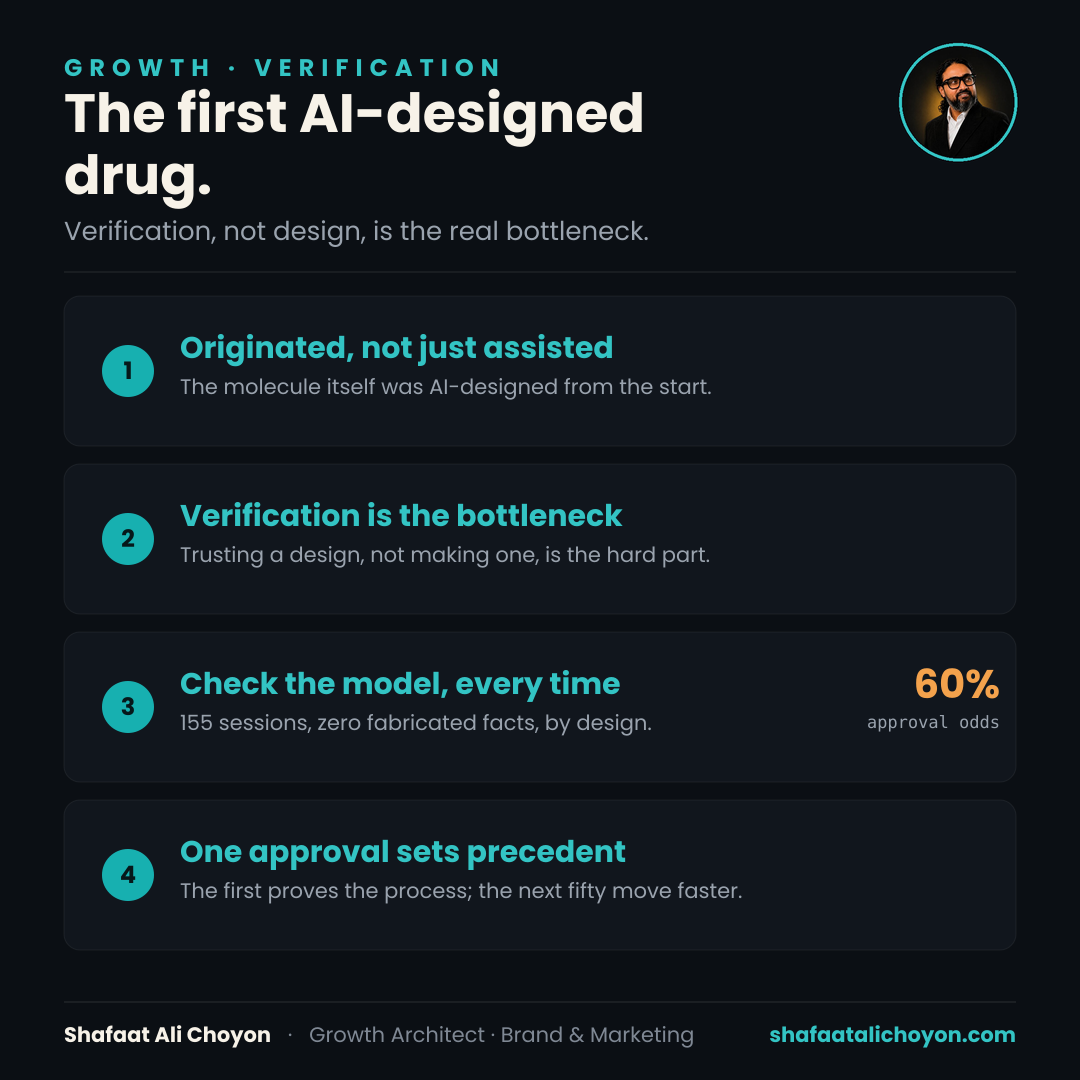
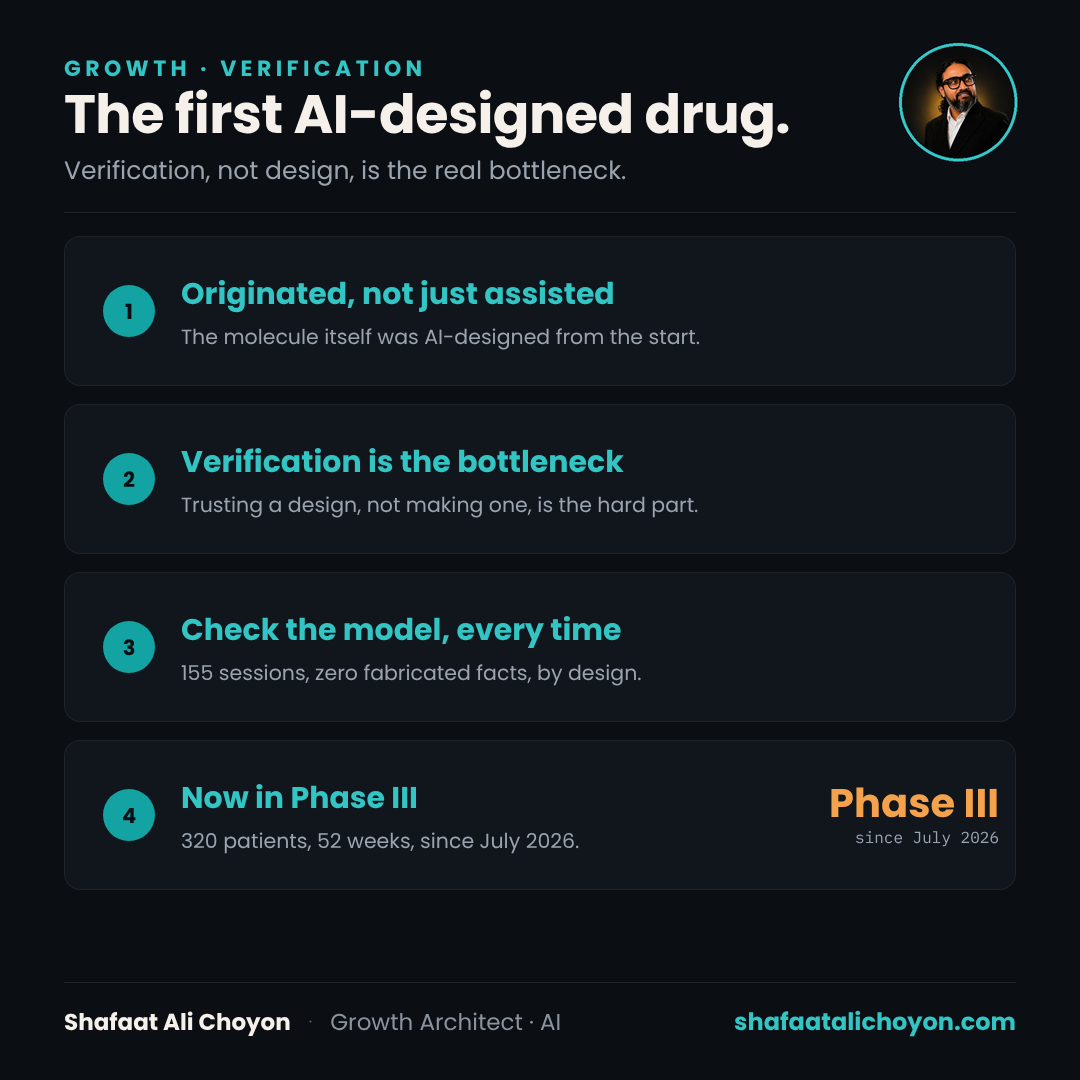
Dated update notes: rentosertib Phase III, Bangladesh out-of-pocket 73%, AI drug counts corrected
- first-ai-designed-drug: rentosertib entered Phase III in July 2026 (Insilico); approval odds line retired; new share cards
- financing-the-uninsured: out-of-pocket 73% in 2021 (Bangladesh National Health Accounts, via BSS); new share cards
- ai-beats-human-drug-discovery: correction note, 117 to 175 programs in trials (2026 trackers), 18 months is an Insilico claim

Claude-Session: https://claude.ai/code/session_01PHiPxyXvEgajkNqsmLpdvA

diff --git a/first-ai-designed-drug.html b/first-ai-designed-drug.html
@@ -5,7 +5,7 @@
 <script>(function(){try{var t=localStorage.getItem('shafaat_theme');if(t!=='light'&&t!=='dark'){t=(window.matchMedia&&window.matchMedia('(prefers-color-scheme: dark)').matches)?'dark':'light';}document.documentElement.setAttribute('data-theme',t);var m=document.querySelector('meta[name=theme-color]');if(m)m.setAttribute('content',t==='light'?'#FBF8F1':'#0B0F14');}catch(e){}})();</script>
 <meta name="viewport" content="width=device-width, initial-scale=1" />
 <title>The First AI-Designed Drug Nears FDA Approval</title>
-<meta name="description" content="Insilico's rentosertib is the first fully AI-designed drug in Phase IIb, with a 60% shot at approval by 2027. Why verification, not design, is the real bottleneck." />
+<meta name="description" content="Insilico's rentosertib, the first fully AI-designed drug, entered Phase III in July 2026. Why verification, not design, is the real bottleneck." />
 <link rel="canonical" href="https://shafaatalichoyon.com/first-ai-designed-drug.html" />
 <meta name="author" content="Md Shafaat Ali Choyon" />
 <meta name="robots" content="index, follow, max-image-preview:large, max-snippet:-1" />
@@ -18,7 +18,7 @@
 <meta property="og:type" content="article" />
 <meta property="og:site_name" content="Md Shafaat Ali Choyon" />
 <meta property="og:title" content="The First AI-Designed Drug Nears FDA Approval" />
-<meta property="og:description" content="Insilico's rentosertib is the first fully AI-designed drug in Phase IIb, with a 60% shot at approval by 2027. Why verification, not design, is the real bottleneck." />
+<meta property="og:description" content="Insilico's rentosertib, the first fully AI-designed drug, entered Phase III in July 2026. Why verification, not design, is the real bottleneck." />
 <meta property="og:url" content="https://shafaatalichoyon.com/first-ai-designed-drug.html" />
 <meta property="og:image" content="https://shafaatalichoyon.com/assets/og/first-ai-designed-drug.png" />
 <meta property="og:image:width" content="1200" />
@@ -28,7 +28,7 @@
 <meta property="article:section" content="Growth" />
 <meta name="twitter:card" content="summary_large_image" />
 <meta name="twitter:title" content="The First AI-Designed Drug Nears FDA Approval" />
-<meta name="twitter:description" content="Insilico's rentosertib is the first fully AI-designed drug in Phase IIb, with a 60% shot at approval by 2027. Why verification, not design, is the real bottleneck." />
+<meta name="twitter:description" content="Insilico's rentosertib, the first fully AI-designed drug, entered Phase III in July 2026. Why verification, not design, is the real bottleneck." />
 <meta name="twitter:image" content="https://shafaatalichoyon.com/assets/og/first-ai-designed-drug.png" />
 
 <script type="application/ld+json">
@@ -38,9 +38,9 @@
     {
       "@type": "Article",
       "headline": "The First Fully AI-Designed Drug Could Get FDA Approval Within the Year",
-      "description": "Insilico's rentosertib is the first fully AI-designed drug in Phase IIb, with a 60% shot at approval by 2027. Why verification, not design, is the real bottleneck.",
+      "description": "Insilico's rentosertib, the first fully AI-designed drug, entered Phase III in July 2026. Why verification, not design, is the real bottleneck.",
       "datePublished": "2026-08-16",
-      "dateModified": "2026-08-16",
+      "dateModified": "2026-10-26",
       "inLanguage": "en",
       "mainEntityOfPage": { "@type": "WebPage", "@id": "https://shafaatalichoyon.com/first-ai-designed-drug.html" },
       "image": "https://shafaatalichoyon.com/assets/og/first-ai-designed-drug.png",
@@ -57,13 +57,16 @@
         { "@type": "ListItem", "position": 3, "name": "The First Fully AI-Designed Drug Could Get FDA Approval Within the Year", "item": "https://shafaatalichoyon.com/first-ai-designed-drug.html" }
       ]
     },
-    {"@type":"FAQPage","mainEntity":[{"@type":"Question","name":"What makes rentosertib different from other AI drug discovery?","acceptedAnswer":{"@type":"Answer","text":"Rentosertib, from Insilico Medicine, was conceived by AI from the first molecular structure onward, not tweaked or accelerated by AI after a human team picked the starting point. It already showed clinical efficacy in Phase IIa and now sits in Phase IIb, with industry analysis putting the odds at 60% for approval sometime between 2026 and 2027."}},{"@type":"Question","name":"Is AI-assisted drug discovery the same as an AI-originated drug?","acceptedAnswer":{"@type":"Answer","text":"No. There are already 200-plus drugs in trials that used AI somewhere in the pipeline, screening candidates or predicting binding affinity, that story is basically won and priced in. Rentosertib is different: the molecule itself, not just the search process that found it, was AI-originated from the start."}},{"@type":"Question","name":"Why is verification the real bottleneck for AI-designed drugs?","acceptedAnswer":{"@type":"Answer","text":"Designing a molecule fast was never the hard part once modeling improved; trusting the design through years of trials is. A 60% approval probability isn't a confidence score on the science, it's a confidence score on everything checking the science, trial by trial, endpoint by endpoint."}}]}
+    {"@type":"FAQPage","mainEntity":[{"@type":"Question","name":"What makes rentosertib different from other AI drug discovery?","acceptedAnswer":{"@type":"Answer","text":"Rentosertib, from Insilico Medicine, was conceived by AI from the first molecular structure onward, not tweaked or accelerated by AI after a human team picked the starting point. It showed clinical efficacy in Phase IIa, and in July 2026 it entered a 320-patient, 52-week Phase III trial in China. It remains investigational and is not approved anywhere yet."}},{"@type":"Question","name":"Is AI-assisted drug discovery the same as an AI-originated drug?","acceptedAnswer":{"@type":"Answer","text":"No. There are already 200-plus drugs in trials that used AI somewhere in the pipeline, screening candidates or predicting binding affinity, that story is basically won and priced in. Rentosertib is different: the molecule itself, not just the search process that found it, was AI-originated from the start."}},{"@type":"Question","name":"Why is verification the real bottleneck for AI-designed drugs?","acceptedAnswer":{"@type":"Answer","text":"Designing a molecule fast was never the hard part once modeling improved; trusting the design through years of trials is. An approval-odds number isn't a confidence score on the science, it's a confidence score on everything checking the science, trial by trial, endpoint by endpoint."}}]}
   ]
 }
 </script>
 
 <link rel="stylesheet" href="/assets/vendor/fonts.css">
 <style>
+.update-note{background:var(--panel);border:1px solid var(--line);border-left:3px solid var(--amber);border-radius:10px;padding:14px 18px;margin:22px 0 4px;font-size:14.5px;color:var(--body);max-width:68ch;}
+.update-note b{color:var(--amber);font-weight:600;}
+
   :root{--bg:#0B0F14;--panel:#11161D;--tile:#06090D;--ivory:#F3EFE7;--body:#C7CDD6;--muted:#9AA3AE;--faint:#7f8894;--teal:#33C4C4;--amber:#F4A24C;--line:rgba(255,255,255,.09);}
   *{box-sizing:border-box;}
   body{margin:0;background:var(--bg);color:var(--body);font-family:'Inter',system-ui,-apple-system,sans-serif;-webkit-font-smoothing:antialiased;line-height:1.66;}
@@ -201,6 +204,7 @@
   <p class="byline">By <b>Md Shafaat Ali Choyon</b> <span class="creds">MPH · CHES® · MBA · MCIM</span> · builds &amp; runs AI in production · Growth &amp; health strategist · 4 min read · <time datetime="2026-08-16">Aug 16, 2026</time></p>
 
   <article>
+    <aside class="update-note" id="update-2026-10-26" aria-label="Update"><p><b>Update, <time datetime="2026-10-26">26 October 2026</time>:</b> Since this essay was published, rentosertib has moved on. In July 2026 Insilico began a Phase III trial: 320 patients with idiopathic pulmonary fibrosis, 52 weeks of once-daily dosing, at 47 centers in China<sup class="cref"><a href="#src-5">5</a></sup>. The company stresses the drug is still investigational and not approved anywhere, so the approval timeline quoted below was too optimistic. The argument stands: designing the molecule was never the bottleneck, trusting it is, and a year-long Phase III against placebo is exactly that test.</p></aside>
     <p class="lede">Somewhere in a Phase IIb trial right now sits a molecule that no chemist designed. Insilico Medicine's rentosertib was conceived by AI from<sup class="cref"><a href="#src-1">1</a></sup> the first structure onward, not tweaked or accelerated by AI after a human team picked the starting point. It already showed clinical efficacy in Phase<sup class="cref"><a href="#src-2">2</a></sup> IIa. Industry analysis this year puts the odds at 60% that the sector sees its first fully AI-designed drug approved somewhere between 2026<sup class="cref"><a href="#src-3">3</a></sup> and 2027.</p>
 
       <figure class="essay-fig">
@@ -238,7 +242,7 @@
 
     <ul class="principles">
       <li><b>Rentosertib</b> is designed by AI from the molecule up, not AI-assisted, AI-originated.</li>
-      <li>The sector carries a <b>60% probability</b> of a first fully AI-designed drug approval in 2026-2027.</li>
+      <li>Rentosertib entered <b>Phase III in July 2026</b> (320 patients, 52 weeks); it is still investigational.</li>
       <li>200+ AI-assisted drugs are already in trials, this is a <b>narrower, symbolic first</b>, not the same story.</li>
       <li>The real bottleneck isn't design speed, it's <b>verification</b> strong enough for regulators to trust it.</li>
     </ul>
@@ -248,7 +252,7 @@
       <h2>Frequently asked questions</h2>
       <div class="faq-item">
         <h3>What makes rentosertib different from other AI drug discovery?</h3>
-        <p>Rentosertib, from Insilico Medicine, was conceived by AI from the first molecular structure onward, not tweaked or accelerated by AI after a human team picked the starting point. It already showed clinical efficacy in Phase IIa and now sits in Phase IIb, with industry analysis putting the odds at 60% for approval sometime between 2026 and 2027.</p>
+        <p>Rentosertib, from Insilico Medicine, was conceived by AI from the first molecular structure onward, not tweaked or accelerated by AI after a human team picked the starting point. It showed clinical efficacy in Phase IIa, and in July 2026 it entered a 320-patient, 52-week Phase III trial in China. It remains investigational and is not approved anywhere yet.</p>
       </div>
       <div class="faq-item">
         <h3>Is AI-assisted drug discovery the same as an AI-originated drug?</h3>
@@ -256,7 +260,7 @@
       </div>
       <div class="faq-item">
         <h3>Why is verification the real bottleneck for AI-designed drugs?</h3>
-        <p>Designing a molecule fast was never the hard part once modeling improved; trusting the design through years of trials is. A 60% approval probability isn't a confidence score on the science, it's a confidence score on everything checking the science, trial by trial, endpoint by endpoint.</p>
+        <p>Designing a molecule fast was never the hard part once modeling improved; trusting the design through years of trials is. An approval-odds number isn't a confidence score on the science, it's a confidence score on everything checking the science, trial by trial, endpoint by endpoint.</p>
       </div>
     </section>
 
@@ -267,6 +271,7 @@
 <li id="src-2">Nature Medicine / PubMed. <a href="https://pubmed.ncbi.nlm.nih.gov/40461817/" target="_blank" rel="noopener">pubmed.ncbi.nlm.nih.gov &#8599;</a></li>
 <li id="src-3">Healthcare Discovery AI (secondary industry analysis). <a href="https://healthcarediscovery.ai/ai-drug-discovery-pipeline-2026-clinical-trials/" target="_blank" rel="noopener">healthcarediscovery.ai &#8599;</a></li>
 <li id="src-4">AIoapex / industry analyses. <a href="https://aioapex.com/en/blog/ai-drug-discovery-clinical-pipeline-2026" target="_blank" rel="noopener">aioapex.com &#8599;</a></li>
+<li id="src-5">Insilico Medicine, "Insilico initiates Phase III clinical trial of rentosertib" (7 July 2026). <a href="https://insilico.com/news/xmjsn4l091-insilico-initiates-phase-iii-clinical-tr" target="_blank" rel="noopener">insilico.com &#8599;</a></li>
 </ol>
 </section>
 <section class="related" aria-label="Related essays">

diff --git a/ai-beats-human-drug-discovery.html b/ai-beats-human-drug-discovery.html
@@ -5,7 +5,7 @@
 <script>(function(){try{var t=localStorage.getItem('shafaat_theme');if(t!=='light'&&t!=='dark'){t=(window.matchMedia&&window.matchMedia('(prefers-color-scheme: dark)').matches)?'dark':'light';}document.documentElement.setAttribute('data-theme',t);var m=document.querySelector('meta[name=theme-color]');if(m)m.setAttribute('content',t==='light'?'#FBF8F1':'#0B0F14');}catch(e){}})();</script>
 <meta name="viewport" content="width=device-width, initial-scale=1" />
 <title>AI Is Now Beating Human Drug Discovery on Its Own Numbers</title>
-<meta name="description" content="200+ AI-designed drugs are in clinical development with 80-90% Phase I success versus 40-65% traditionally. AI isn't just faster at discovery, it's more accurate." />
+<meta name="description" content="117 to 175 AI-designed drug programs have reached trials, with 80-90% Phase I success versus 40-65% traditionally. AI isn't just faster at discovery, it's more accurate." />
 <link rel="canonical" href="https://shafaatalichoyon.com/ai-beats-human-drug-discovery.html" />
 <meta name="author" content="Md Shafaat Ali Choyon" />
 <meta name="robots" content="index, follow, max-image-preview:large, max-snippet:-1" />
@@ -18,7 +18,7 @@
 <meta property="og:type" content="article" />
 <meta property="og:site_name" content="Md Shafaat Ali Choyon" />
 <meta property="og:title" content="AI Is Now Beating Human Drug Discovery on Its Own Numbers" />
-<meta property="og:description" content="200+ AI-designed drugs are in clinical development with 80-90% Phase I success versus 40-65% traditionally. AI isn't just faster at discovery, it's more accurate." />
+<meta property="og:description" content="117 to 175 AI-designed drug programs have reached trials, with 80-90% Phase I success versus 40-65% traditionally. AI isn't just faster at discovery, it's more accurate." />
 <meta property="og:url" content="https://shafaatalichoyon.com/ai-beats-human-drug-discovery.html" />
 <meta property="og:image" content="https://shafaatalichoyon.com/assets/og/ai-beats-human-drug-discovery.png" />
 <meta property="og:image:width" content="1200" />
@@ -28,7 +28,7 @@
 <meta property="article:section" content="Artificial Intelligence" />
 <meta name="twitter:card" content="summary_large_image" />
 <meta name="twitter:title" content="AI Is Now Beating Human Drug Discovery on Its Own Numbers" />
-<meta name="twitter:description" content="200+ AI-designed drugs are in clinical development with 80-90% Phase I success versus 40-65% traditionally. AI isn't just faster at discovery, it's more accurate." />
+<meta name="twitter:description" content="117 to 175 AI-designed drug programs have reached trials, with 80-90% Phase I success versus 40-65% traditionally. AI isn't just faster at discovery, it's more accurate." />
 <meta name="twitter:image" content="https://shafaatalichoyon.com/assets/og/ai-beats-human-drug-discovery.png" />
 
 <script type="application/ld+json">
@@ -38,9 +38,9 @@
     {
       "@type": "Article",
       "headline": "AI Is Now Beating Human Drug Discovery on Its Own Numbers",
-      "description": "200+ AI-designed drugs are in clinical development with 80-90% Phase I success versus 40-65% traditionally. AI isn't just faster at discovery, it's more accurate.",
+      "description": "117 to 175 AI-designed drug programs have reached trials, with 80-90% Phase I success versus 40-65% traditionally. AI isn't just faster at discovery, it's more accurate.",
       "datePublished": "2026-08-22",
-      "dateModified": "2026-08-22",
+      "dateModified": "2026-10-26",
       "inLanguage": "en",
       "mainEntityOfPage": { "@type": "WebPage", "@id": "https://shafaatalichoyon.com/ai-beats-human-drug-discovery.html" },
       "image": "https://shafaatalichoyon.com/assets/og/ai-beats-human-drug-discovery.png",
@@ -57,13 +57,16 @@
         { "@type": "ListItem", "position": 3, "name": "AI Is Now Beating Human Drug Discovery on Its Own Numbers", "item": "https://shafaatalichoyon.com/ai-beats-human-drug-discovery.html" }
       ]
     },
-    {"@type":"FAQPage","mainEntity":[{"@type":"Question","name":"Is AI actually beating human drug discovery, or is it just faster?","acceptedAnswer":{"@type":"Answer","text":"Both, but the surprising part is accuracy: AI-designed drugs run an 80-90% Phase I success rate versus 40-65% for traditionally discovered drugs. Target-to-IND time also dropped from 3-5 years to 18 months, but the hit-rate gain is the real story."}},{"@type":"Question","name":"How many AI-designed drugs are currently in clinical development?","acceptedAnswer":{"@type":"Answer","text":"More than 200 AI-designed drugs are already in clinical development, which is the proof point that this approach works at scale, not just a lab-scale promise."}},{"@type":"Question","name":"What's driving the accuracy gain, not just the speed gain?","acceptedAnswer":{"@type":"Answer","text":"A locked, consistent evaluation framework that removes the guesswork about what \"working\" means, the same mechanism behind the roughly 3x reach improvement documented in my MPH capstone. Instead of advancing candidates on partial, noisy preclinical signals, the process screens against a fixed standard across millions of molecular permutations."}}]}
+    {"@type":"FAQPage","mainEntity":[{"@type":"Question","name":"Is AI actually beating human drug discovery, or is it just faster?","acceptedAnswer":{"@type":"Answer","text":"Both, but the surprising part is accuracy: AI-designed drugs run an 80-90% Phase I success rate versus 40-65% for traditionally discovered drugs. Insilico reports finding one target and molecule in under 18 months, but the hit-rate gain is the real story."}},{"@type":"Question","name":"How many AI-designed drugs are currently in clinical development?","acceptedAnswer":{"@type":"Answer","text":"Between 117 and 175 AI-designed drug programs have reached human trials, depending on the tracker, which is the proof point that this approach works at scale, not just a lab-scale promise."}},{"@type":"Question","name":"What's driving the accuracy gain, not just the speed gain?","acceptedAnswer":{"@type":"Answer","text":"A locked, consistent evaluation framework that removes the guesswork about what \"working\" means, the same mechanism behind the roughly 3x reach improvement documented in my MPH capstone. Instead of advancing candidates on partial, noisy preclinical signals, the process screens against a fixed standard across millions of molecular permutations."}}]}
   ]
 }
 </script>
 
 <link rel="stylesheet" href="/assets/vendor/fonts.css">
 <style>
+.update-note{background:var(--panel);border:1px solid var(--line);border-left:3px solid var(--amber);border-radius:10px;padding:14px 18px;margin:22px 0 4px;font-size:14.5px;color:var(--body);max-width:68ch;}
+.update-note b{color:var(--amber);font-weight:600;}
+
   :root{--bg:#0B0F14;--panel:#11161D;--tile:#06090D;--ivory:#F3EFE7;--body:#C7CDD6;--muted:#9AA3AE;--faint:#7f8894;--teal:#33C4C4;--amber:#F4A24C;--line:rgba(255,255,255,.09);}
   *{box-sizing:border-box;}
   body{margin:0;background:var(--bg);color:var(--body);font-family:'Inter',system-ui,-apple-system,sans-serif;-webkit-font-smoothing:antialiased;line-height:1.66;}
@@ -201,6 +204,7 @@
   <p class="byline">By <b>Md Shafaat Ali Choyon</b> <span class="creds">MPH · CHES® · MBA · MCIM</span> · builds &amp; runs AI in production · Growth &amp; health strategist · 4 min read · <time datetime="2026-08-22">Aug 22, 2026</time></p>
 
   <article>
+    <aside class="update-note" id="update-2026-10-26" aria-label="Update"><p><b>Correction, <time datetime="2026-10-26">26 October 2026</time>:</b> Two figures below were stated more firmly than the evidence allows. Trackers in 2026 count roughly 117 to 175 AI-designed drug programs in human trials, not "more than 200"; the counts use different definitions and none is authoritative<sup class="cref"><a href="#src-3">3</a></sup>. The 18-month figure is Insilico's own claim for finding one target and molecule, not an industry-wide target-to-IND time. The 80-90% Phase I success rate is a 2024 BCG estimate on a limited sample, and AI-discovered drugs have so far failed Phase II at rates similar to other drugs. The argument stands: the hit rate, not the speed, is the number to watch.</p></aside>
     <p class="lede">More than 200<sup class="cref"><a href="#src-1">1</a></sup> AI-designed drugs are now in clinical development. Their Phase I success rate runs 80-90%<sup class="cref"><a href="#src-2">2</a></sup>, against 40-65% for traditionally discovered drugs, and target-to-IND time has dropped from 3-5 years<sup class="cref"><a href="#src-1">1</a></sup> to 18 months. This is not AI writing lab notes faster. It's AI beating human-led discovery on the industry's own scorecard.</p>
 
       <figure class="essay-fig">
@@ -227,9 +231,9 @@
     <h2>The short version</h2>
 
     <ul class="principles">
-      <li><b>200+ AI-designed drugs are already in clinical development.</b></li>
+      <li><b>117 to 175 AI-designed drug programs have reached human trials (2026 trackers).</b></li>
       <li><b>Phase I success runs 80-90% for AI-designed drugs versus 40-65% traditionally.</b></li>
-      <li><b>Target-to-IND time dropped from 3-5 years to 18 months.</b></li>
+      <li><b>Insilico reports target-to-molecule in under 18 months (a company claim).</b></li>
       <li><b>The gain is a locked evaluation framework, not just faster computation, a pattern that holds across domains.</b></li>
     </ul>
 
@@ -238,11 +242,11 @@
       <h2>Frequently asked questions</h2>
       <div class="faq-item">
         <h3>Is AI actually beating human drug discovery, or is it just faster?</h3>
-        <p>Both, but the surprising part is accuracy: AI-designed drugs run an 80-90% Phase I success rate versus 40-65% for traditionally discovered drugs. Target-to-IND time also dropped from 3-5 years to 18 months, but the hit-rate gain is the real story.</p>
+        <p>Both, but the surprising part is accuracy: AI-designed drugs run an 80-90% Phase I success rate versus 40-65% for traditionally discovered drugs. Insilico reports finding one target and molecule in under 18 months, but the hit-rate gain is the real story.</p>
       </div>
       <div class="faq-item">
         <h3>How many AI-designed drugs are currently in clinical development?</h3>
-        <p>More than 200 AI-designed drugs are already in clinical development, which is the proof point that this approach works at scale, not just a lab-scale promise.</p>
+        <p>Between 117 and 175 AI-designed drug programs have reached human trials, depending on the tracker, which is the proof point that this approach works at scale, not just a lab-scale promise.</p>
       </div>
       <div class="faq-item">
         <h3>What's driving the accuracy gain, not just the speed gain?</h3>
@@ -255,6 +259,7 @@
 <ol>
 <li id="src-1">Boston Consulting Group (via IntuitionLabs). <a href="https://intuitionlabs.ai/articles/fda-accelerated-ai-pathway-pilot-phase-1" target="_blank" rel="noopener">intuitionlabs.ai &#8599;</a></li>
 <li id="src-2">Boston Consulting Group / Drug Discovery Today. <a href="https://pubmed.ncbi.nlm.nih.gov/38692505/" target="_blank" rel="noopener">pubmed.ncbi.nlm.nih.gov &#8599;</a></li>
+<li id="src-3">IntuitionLabs, "AI-discovered drugs in clinical trials: 2026" (updated 11 October 2026). <a href="https://intuitionlabs.ai/articles/ai-discovered-drugs-clinical-trials-2026" target="_blank" rel="noopener">intuitionlabs.ai &#8599;</a></li>
 </ol>
 </section>
 <section class="related" aria-label="Related essays">

diff --git a/financing-the-uninsured.html b/financing-the-uninsured.html
@@ -5,7 +5,7 @@
 <script>(function(){try{var t=localStorage.getItem('shafaat_theme');if(t!=='light'&&t!=='dark'){t=(window.matchMedia&&window.matchMedia('(prefers-color-scheme: dark)').matches)?'dark':'light';}document.documentElement.setAttribute('data-theme',t);var m=document.querySelector('meta[name=theme-color]');if(m)m.setAttribute('content',t==='light'?'#FBF8F1':'#0B0F14');}catch(e){}})();</script>
 <meta name="viewport" content="width=device-width, initial-scale=1" />
 <title>Financing the uninsured: the missing rail in health</title>
-<meta name="description" content="In Bangladesh, out-of-pocket costs are ~68.5% of health spending; ~70M face hardship. The fix isn't a clinic: it's a payment rail I built at national scale." />
+<meta name="description" content="In Bangladesh, out-of-pocket costs are ~73% of health spending; ~70M face hardship. The fix isn't a clinic: it's a payment rail I built at national scale." />
 <link rel="canonical" href="https://shafaatalichoyon.com/financing-the-uninsured.html" />
 <meta name="author" content="Md Shafaat Ali Choyon" />
 <meta name="robots" content="index, follow, max-image-preview:large, max-snippet:-1" />
@@ -18,7 +18,7 @@
 <meta property="og:type" content="article" />
 <meta property="og:site_name" content="Md Shafaat Ali Choyon" />
 <meta property="og:title" content="Financing the uninsured: the missing rail in health" />
-<meta property="og:description" content="In Bangladesh, out-of-pocket costs are ~68.5% of health spending; ~70M face hardship. The fix isn't a clinic: it's a payment rail I built at national scale." />
+<meta property="og:description" content="In Bangladesh, out-of-pocket costs are ~73% of health spending; ~70M face hardship. The fix isn't a clinic: it's a payment rail I built at national scale." />
 <meta property="og:url" content="https://shafaatalichoyon.com/financing-the-uninsured.html" />
 <meta property="og:image" content="https://shafaatalichoyon.com/assets/og/financing-the-uninsured.png" />
 <meta property="og:image:width" content="1200" />
@@ -28,7 +28,7 @@
 <meta property="article:section" content="Healthtech" />
 <meta name="twitter:card" content="summary_large_image" />
 <meta name="twitter:title" content="Financing the uninsured: the missing rail in health" />
-<meta name="twitter:description" content="In Bangladesh, out-of-pocket costs are ~68.5% of health spending; ~70M face hardship. The fix isn't a clinic: it's a payment rail I built at national scale." />
+<meta name="twitter:description" content="In Bangladesh, out-of-pocket costs are ~73% of health spending; ~70M face hardship. The fix isn't a clinic: it's a payment rail I built at national scale." />
 <meta name="twitter:image" content="https://shafaatalichoyon.com/assets/og/financing-the-uninsured.png" />
 
 <script type="application/ld+json">
@@ -38,9 +38,9 @@
     {
       "@type": "Article",
       "headline": "Financing the uninsured: the missing rail in health",
-      "description": "In Bangladesh, out-of-pocket costs are ~68.5% of health spending; ~70M face hardship. The fix isn't a clinic: it's a payment rail I built at national scale.",
+      "description": "In Bangladesh, out-of-pocket costs are ~73% of health spending; ~70M face hardship. The fix isn't a clinic: it's a payment rail I built at national scale.",
       "datePublished": "2026-08-18",
-      "dateModified": "2026-08-18",
+      "dateModified": "2026-10-26",
       "inLanguage": "en",
       "mainEntityOfPage": { "@type": "WebPage", "@id": "https://shafaatalichoyon.com/financing-the-uninsured.html" },
       "image": "https://shafaatalichoyon.com/assets/og/financing-the-uninsured.png",
@@ -57,13 +57,16 @@
         { "@type": "ListItem", "position": 3, "name": "Financing the uninsured: the missing rail in health", "item": "https://shafaatalichoyon.com/financing-the-uninsured.html" }
       ]
     },
-    {"@type":"FAQPage","mainEntity":[{"@type":"Question","name":"What share of health spending in Bangladesh is out-of-pocket?","acceptedAnswer":{"@type":"Answer","text":"Roughly 68.5%, among the highest shares in the world. About 70 million people face financial hardship because of it, and around one in six patients skip care entirely in a given year."}},{"@type":"Question","name":"Why isn't insurance the answer for the uninsured?","acceptedAnswer":{"@type":"Answer","text":"Formal insurance covers only a sliver of the population. The harder, more scalable problem is distributing small payments reliably to people the formal system never reached."}},{"@type":"Question","name":"What actually works to finance the uninsured?","acceptedAnswer":{"@type":"Answer","text":"Embedded, micro, and mobile financing attached to the moment of care: pay-as-you-go options and micro-insurance sized to what a day-laborer can afford, not a transplant of Western health insurance."}},{"@type":"Question","name":"Is this only an emerging-market problem?","acceptedAnswer":{"@type":"Answer","text":"No. In the US, high-deductible plans have turned tens of millions of insured people into cash payers for everything under their deductible, so the design problem is converging from both directions."}}]}
+    {"@type":"FAQPage","mainEntity":[{"@type":"Question","name":"What share of health spending in Bangladesh is out-of-pocket?","acceptedAnswer":{"@type":"Answer","text":"About 73% in 2021, up from 68.5% in 2020, among the highest shares in the world. About 70 million people face financial hardship because of it, and around one in six patients skip care entirely in a given year."}},{"@type":"Question","name":"Why isn't insurance the answer for the uninsured?","acceptedAnswer":{"@type":"Answer","text":"Formal insurance covers only a sliver of the population. The harder, more scalable problem is distributing small payments reliably to people the formal system never reached."}},{"@type":"Question","name":"What actually works to finance the uninsured?","acceptedAnswer":{"@type":"Answer","text":"Embedded, micro, and mobile financing attached to the moment of care: pay-as-you-go options and micro-insurance sized to what a day-laborer can afford, not a transplant of Western health insurance."}},{"@type":"Question","name":"Is this only an emerging-market problem?","acceptedAnswer":{"@type":"Answer","text":"No. In the US, high-deductible plans have turned tens of millions of insured people into cash payers for everything under their deductible, so the design problem is converging from both directions."}}]}
   ]
 }
 </script>
 
 <link rel="stylesheet" href="/assets/vendor/fonts.css">
 <style>
+.update-note{background:var(--panel);border:1px solid var(--line);border-left:3px solid var(--amber);border-radius:10px;padding:14px 18px;margin:22px 0 4px;font-size:14.5px;color:var(--body);max-width:68ch;}
+.update-note b{color:var(--amber);font-weight:600;}
+
   :root{--bg:#0B0F14;--panel:#11161D;--tile:#06090D;--ivory:#F3EFE7;--body:#C7CDD6;--muted:#9AA3AE;--faint:#7f8894;--teal:#33C4C4;--amber:#F4A24C;--line:rgba(255,255,255,.09);}
   *{box-sizing:border-box;}
   body{margin:0;background:var(--bg);color:var(--body);font-family:'Inter',system-ui,-apple-system,sans-serif;-webkit-font-smoothing:antialiased;line-height:1.66;}
@@ -201,10 +204,11 @@
   <p class="byline">By <b>Md Shafaat Ali Choyon</b> <span class="creds">MPH · CHES® · MBA · MCIM</span> · builds &amp; runs AI in production · Growth &amp; health strategist · 6 min read · <time datetime="2026-08-18">Aug 18, 2026</time></p>
 
   <article>
+    <aside class="update-note" id="update-2026-10-26" aria-label="Update"><p><b>Update, <time datetime="2026-10-26">26 October 2026</time>:</b> The latest Bangladesh National Health Accounts put out-of-pocket payments at about 73% of health spending in 2021, up from the 68.5% for 2020 cited below<sup class="cref"><a href="#src-4">4</a></sup>. The share is rising, not falling, which makes the missing financing rail more urgent, not less.</p></aside>
     <p class="lede">Most health-tech pitches start with care, a better app, a smarter model, a slicker clinic. In much of the world, that's the second problem. The first one is money: how a person who has no insurance actually pays for the care in front of them. Solve the payment and the rest becomes possible. Skip it and you've built a beautiful clinic nobody can afford to walk into.</p>
 
       <figure class="essay-fig">
-        <img src="/assets/og/financing-the-uninsured.webp" alt="Out-of-pocket is ~68.5% of health spending in Bangladesh; ~70M face hardship; a mobile rail moved a stipend to ~10M hands." loading="lazy" id="ogfig">
+        <img src="/assets/og/financing-the-uninsured.webp" alt="Out-of-pocket is ~73% of health spending in Bangladesh; ~70M face hardship; a mobile rail moved a stipend to ~10M hands." loading="lazy" id="ogfig">
         <figcaption>The gap, at a glance, click to enlarge.</figcaption>
       </figure>
 
@@ -229,7 +233,7 @@
     <h2>The short version</h2>
 
     <ul class="principles">
-      <li>Out-of-pocket payments are ~68.5% of health spending in Bangladesh; ~70M face financial hardship and many skip care.</li>
+      <li>Out-of-pocket payments are ~73% of health spending in Bangladesh (2021); ~70M face financial hardship and many skip care.</li>
       <li>The bottleneck isn't clinics or apps, it's the absence of a financing rail for the uninsured.</li>
       <li>I've built national-scale distribution to the unbanked: a stipend to ~10M hands over mobile rails at SureCash.</li>
       <li>The winning products are embedded, micro, and mobile, not a transplant of Western insurance.</li>
@@ -240,7 +244,7 @@
       <h2>Frequently asked questions</h2>
       <div class="faq-item">
         <h3>What share of health spending in Bangladesh is out-of-pocket?</h3>
-        <p>Roughly 68.5%, among the highest shares in the world. About 70 million people face financial hardship because of it, and around one in six patients skip care entirely in a given year.</p>
+        <p>About 73% in 2021, up from 68.5% in 2020, among the highest shares in the world. About 70 million people face financial hardship because of it, and around one in six patients skip care entirely in a given year.</p>
       </div>
       <div class="faq-item">
         <h3>Why isn't insurance the answer for the uninsured?</h3>
@@ -262,6 +266,7 @@
 <li id="src-1">World Bank. <a href="https://openknowledge.worldbank.org/bitstreams/afd912e4-4d16-4243-a160-8fbf558506aa/download" target="_blank" rel="noopener">openknowledge.worldbank.org &#8599;</a></li>
 <li id="src-2">World Health Organization (WHO Bangladesh). <a href="https://www.who.int/bangladesh/news/feature-stories/item/bangladesh-moves-forward-on-universal-health-coverage-who-hosts-technical-consultation-on-uhc-roadmap-2026-2035" target="_blank" rel="noopener">who.int &#8599;</a></li>
 <li id="src-3">PubMed / BMC. <a href="https://pubmed.ncbi.nlm.nih.gov/35006416/" target="_blank" rel="noopener">pubmed.ncbi.nlm.nih.gov &#8599;</a></li>
+<li id="src-4">BSS, citing the Bangladesh National Health Accounts: out-of-pocket spending rose to 73% in 2021 (15 July 2024). <a href="https://www.bssnews.net/news/200361" target="_blank" rel="noopener">bssnews.net &#8599;</a></li>
 </ol>
 </section>
 <section class="related" aria-label="Related essays">
